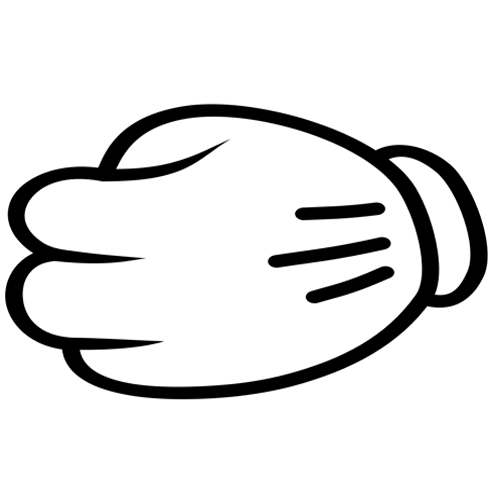
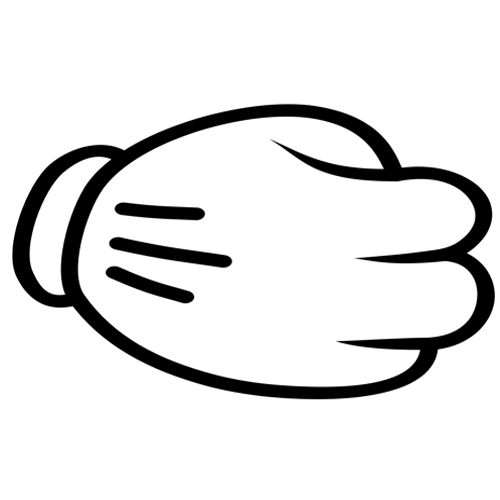
update styles

Changed region(s): [[0.0, 0.18, 0.99, 0.81]]

diff --git a/src/components/Result.js b/src/components/Result.js
@@ -4,15 +4,19 @@ class Result extends Component {
   state = {};
   render() {
     return (
-      <div>
+      <div className="text-center fw-bold fs-1">
         <div>
-          <p>You Win !!!</p>
+          <p className="text-warning">You Win !!!</p>
         </div>
         <div>
-          <p>Number Win: 0</p>
+          <p className="text-primary">
+            Number Win: <span className="text-warning">0</span>
+          </p>
         </div>
         <div>
-          <p>Number Play: 0</p>
+          <p className="text-primary">
+            Number Play: <span className="text-warning">0</span>
+          </p>
         </div>
       </div>
     );

diff --git a/src/assets/css/buble.css b/src/assets/css/buble.css
@@ -2,7 +2,7 @@
 	position: relative;
 	background: #45D994;
 	border-radius: .4em;
-	
+
 }
 
 .speech-bubble:after {
@@ -13,9 +13,14 @@
 	width: 0;
 	height: 0;
 	border: 35px solid transparent;
-	border-top-color: #45D994;
+	border-top-color: #fff;
 	border-bottom: 0;
 	border-left: 0;
 	margin-left: -17.5px;
 	margin-bottom: -35px;
+}
+
+.thethink {
+	border: 3px solid #fff;
+	border-radius: 10px;
 }

diff --git a/src/components/RockPaperScissors.js b/src/components/RockPaperScissors.js
@@ -14,7 +14,9 @@ class RockPaperScissors extends Component {
         </div>
         <div className="col-6">
           <Result />
-          <button>Play game</button>
+          <div className="mt-5 text-center">
+            <button className="btn bnt-rouder btn-success btn-lg">Play game</button>
+          </div>
         </div>
         <div className="col-3">
           <Computer />

diff --git a/src/assets/css/RockPaperScissors.css b/src/assets/css/RockPaperScissors.css
@@ -1,12 +1,17 @@
 .App {
   background-image: url("../imgs/bgGame.png");
   background-repeat: no-repeat;
-  background-position: center;
+  background-position: center 350px;
   background-size: cover;
   height: 100vh;
   color: #fff;
+  background-color: #000;
 }
 
 img {
   width: 100%;
+}
+
+.thethinkComputer img {
+  transform: rotateY(180deg);
 }

diff --git a/src/App.js b/src/App.js
@@ -3,7 +3,7 @@ import RockPaperScissors from "./components/RockPaperScissors";
 function App() {
   return (
     <div className="App">
-      <h1 className="p5">Game Rock Paper scissors</h1>
+      <h1 className="p-5 text-center fs-1">Game Rock Paper scissors</h1>
       <div className="container">
         <RockPaperScissors />
       </div>

diff --git a/src/components/Computer.js b/src/components/Computer.js
@@ -5,7 +5,7 @@ class Computer extends Component {
     return (
       <div>
         <div>
-          <div className="thethink">
+          <div className="thethink thethinkComputer">
             <img src="../assets/imgs/rock.png" alt="rock" />
           </div>
           <div className="speech-bubble"></div>
